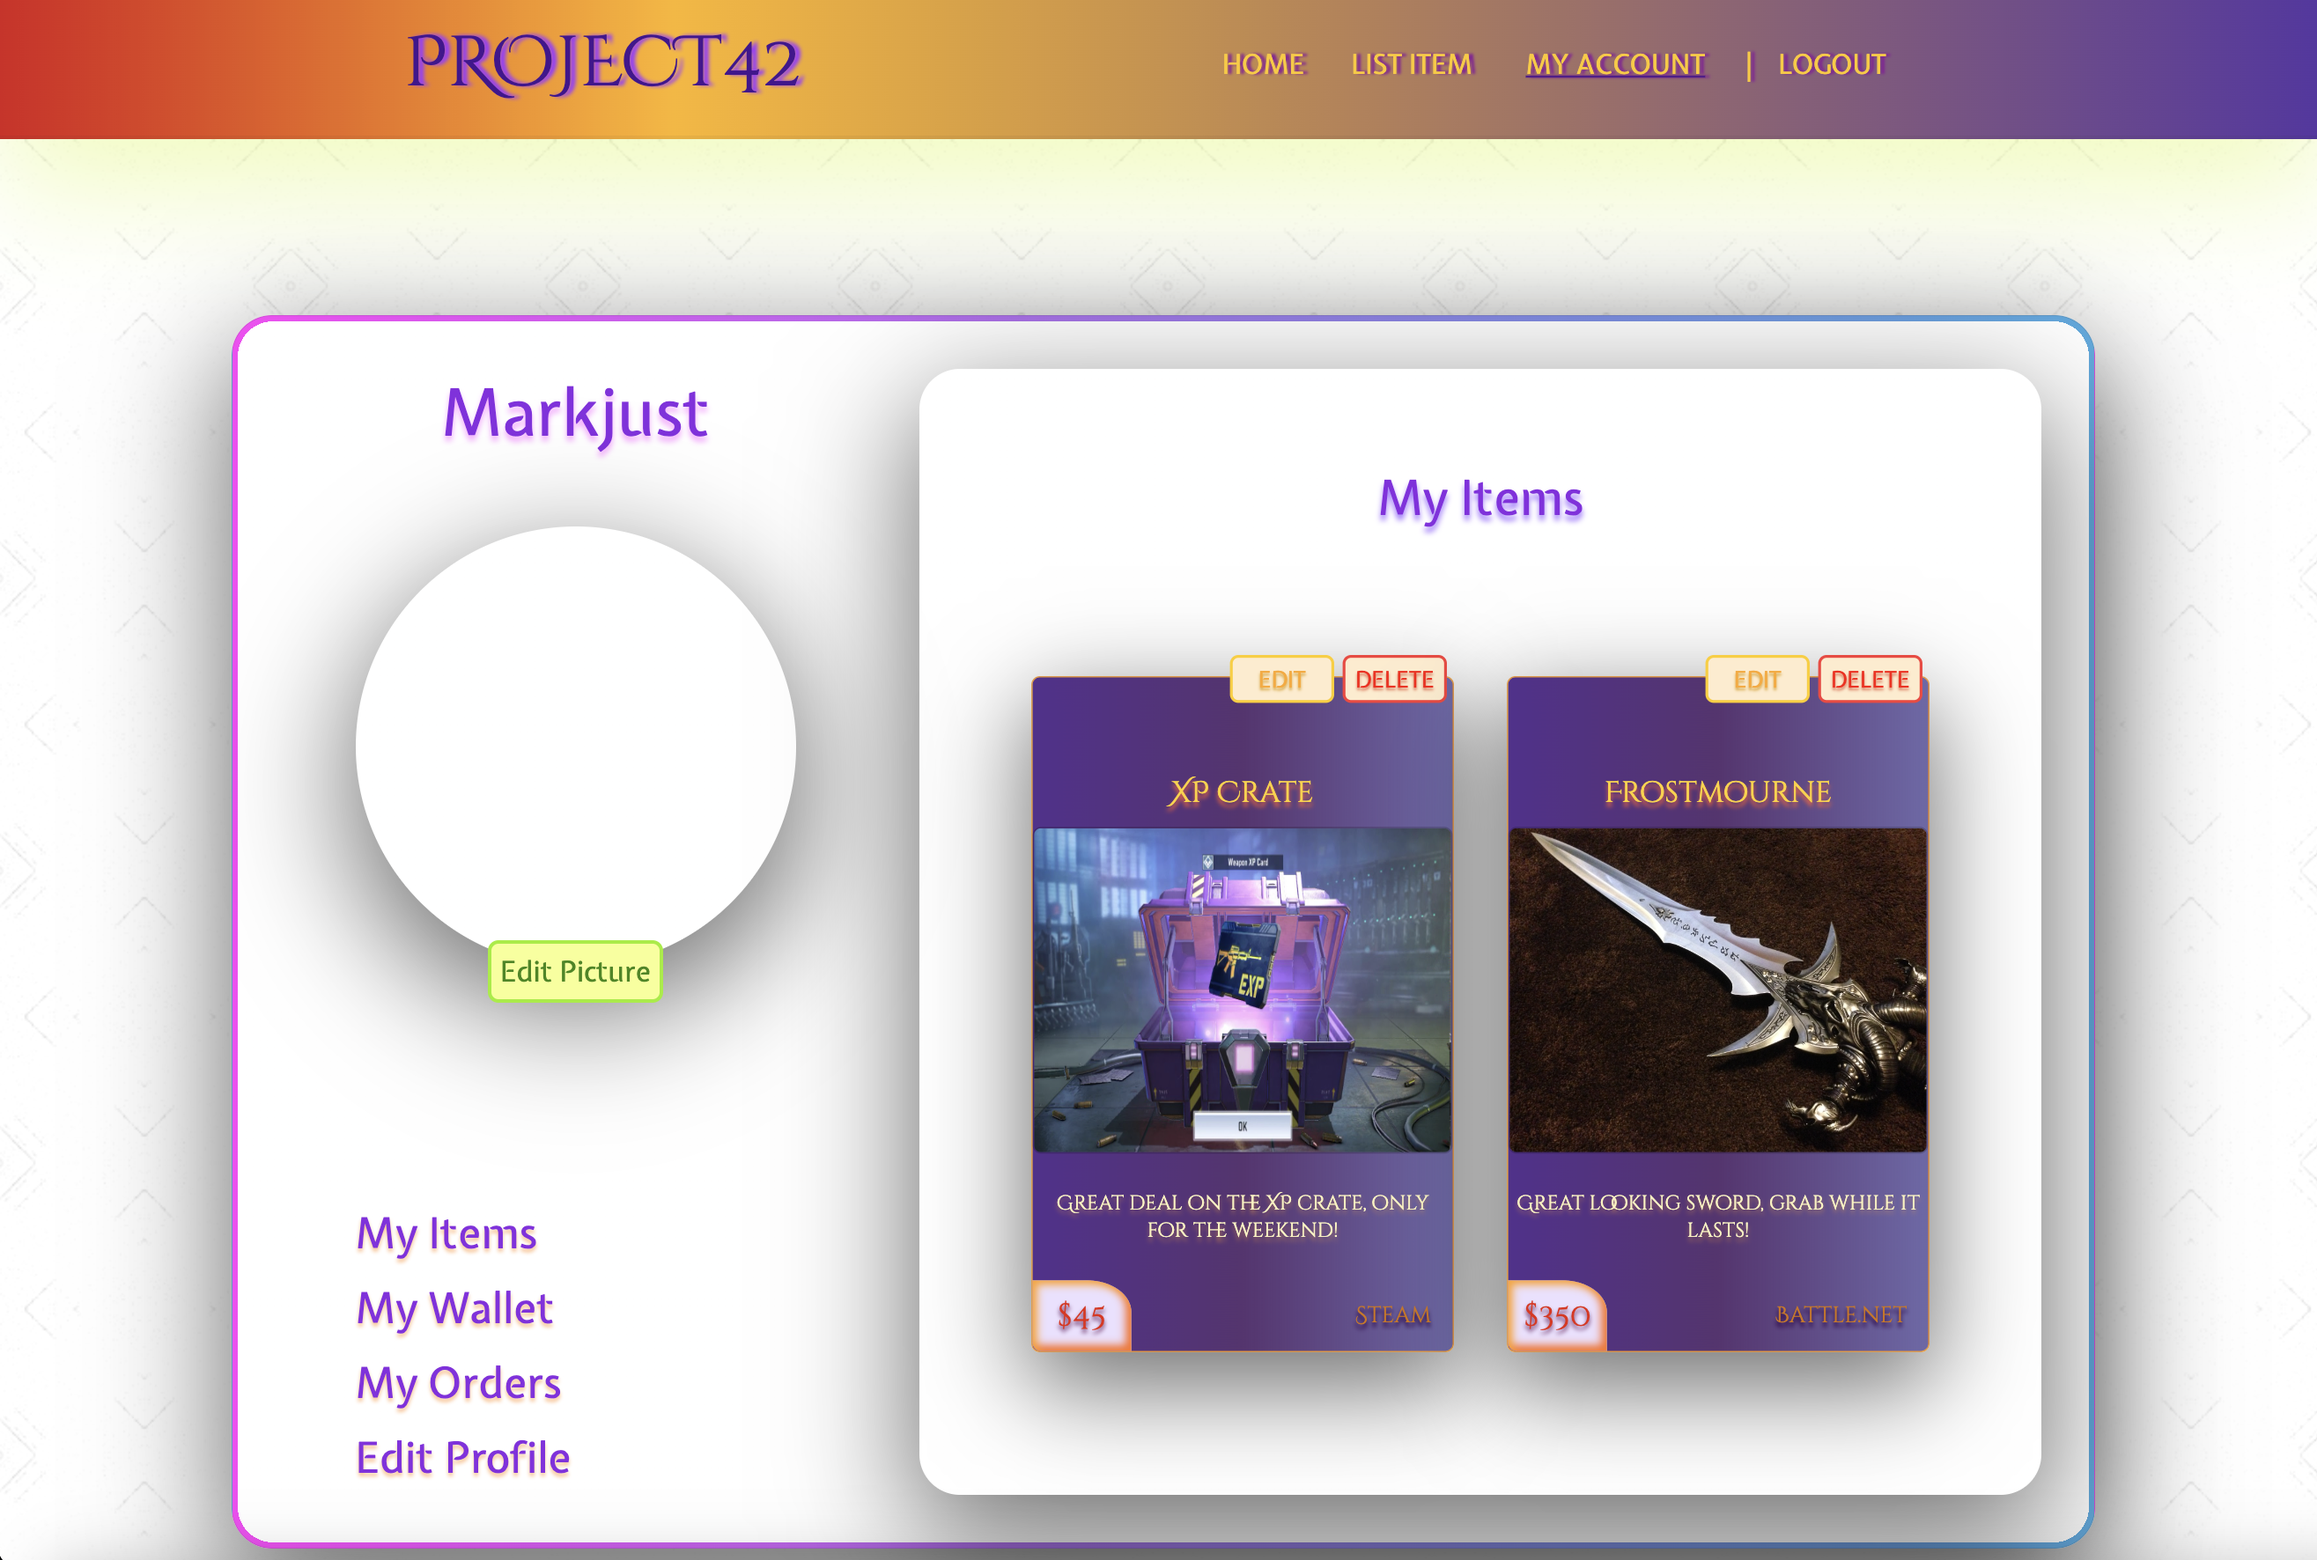
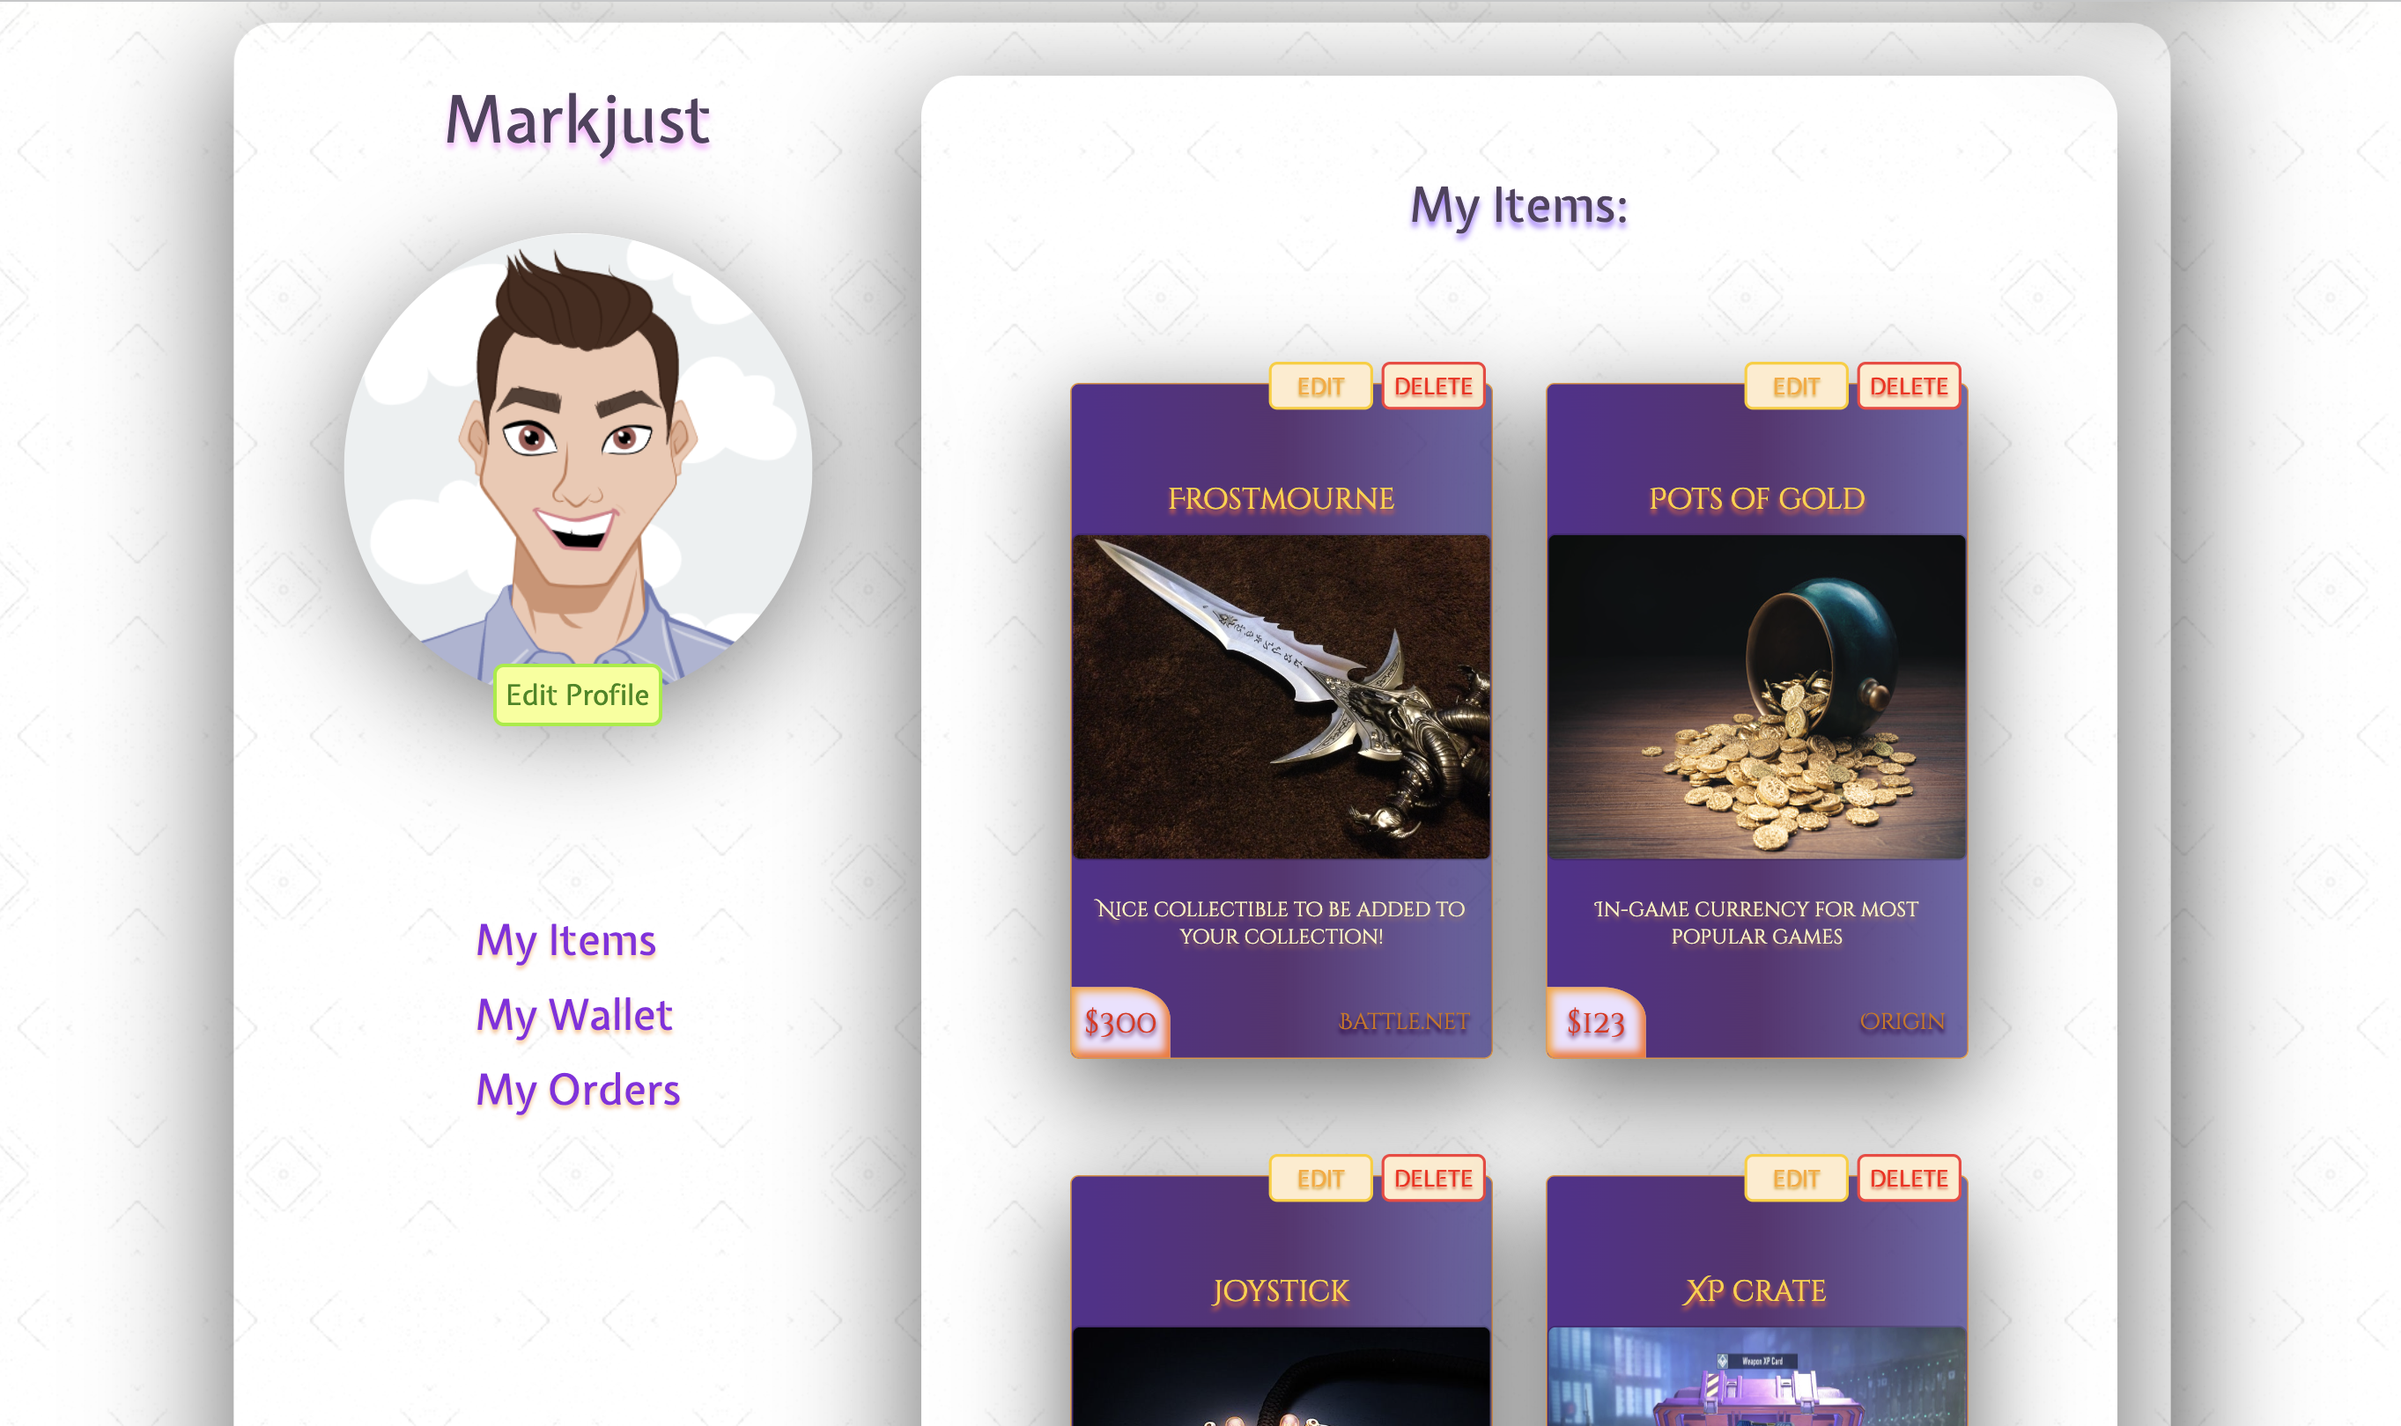
update project pics

diff --git a/express-backend/routes/users.js b/express-backend/routes/users.js
@@ -96,8 +96,10 @@ router.patch("/:id", getUser, async (req, res) => {
   const user = await User.findById(req.params.id);
 
   // credit cards
-  if (req.body.cards){
-    let cardMatch = user.cards.find(card => card.cardNumber === Number(req.body.cards[0].cardNumber));
+  if (req.body.cards) {
+    let cardMatch = user.cards.find(
+      (card) => card.cardNumber === Number(req.body.cards[0].cardNumber)
+    );
     if (!cardMatch) {
       const cards = req.body.cards;
       // console.log('cards:',cards)
@@ -112,16 +114,18 @@ router.patch("/:id", getUser, async (req, res) => {
   }
 
   // cart items
-  let cartMatch = user.cart.find(
-    (item) => item.title === req.body.cart[0].title
-  );
-  if (!cartMatch) {
-    const cart = req.body.cart;
-    cart?.map((el) => {
-      res.user.cart.push(el);
-    });
-  } else {
-    res.status(409);
+  if (req.body.cart) {
+    let cartMatch = user.cart.find(
+      (item) => item.title === req.body.cart[0].title
+    );
+    if (!cartMatch) {
+      const cart = req.body.cart;
+      cart?.map((el) => {
+        res.user.cart.push(el);
+      });
+    } else {
+      res.status(409);
+    }
   }
 
   try {

diff --git a/README.md b/README.md
@@ -23,11 +23,26 @@ Once all the conditions are satisfied, the 'Register' button is activated.
 
 -------------------------------------------------------------------------
 
-### User login:
+### Browse all items:
 
-The login form changes border colour to red and wiggles if user entered wrong information.
+The page where we browse items from all users and add selected items to our cart. We receive the number of cart items on the icon in the top right corner. 
 
-!["Login"](./react-frontend/public/uploads/login.png)
+!["Main"](./react-frontend/public/uploads/main.png)
+
+-------------------------------------------------------------------------
+
+### My Cabinet:
+
+Place where we see our own items, user can edit the item ino as well as delete items.
+
+!["Add"](./react-frontend/public/uploads/myitems.png)
+
+-------------------------------------------------------------------------
+### Editing user profile:
+
+We can update our profile by clicking on "Edit Profile" button under the profile picture.
+
+!["Add"](./react-frontend/public/uploads/editprofile.png)
 
 -------------------------------------------------------------------------
 
@@ -38,12 +53,27 @@ Process of adding the item.
 !["Add"](./react-frontend/public/uploads/additem.png)
 
 -------------------------------------------------------------------------
+### Cart:
 
+This is where cart items are stored before user jumps to checkout.
+
+!["Cart"](./react-frontend/public/uploads/cart.png)
+
+-------------------------------------------------------------------------
+
+### My wallet:
+
+Place where users add new credit cards and see the added ones.
+
+!["Wallet"](./react-frontend/public/uploads/mywallet.png)
+!["Addcard"](./react-frontend/public/uploads/addcard.png)
+
+
+-------------------------------------------------------------------------
 ### My items:
 
 Place where users can see, edit and delete their items.
 
-!["Add"](./react-frontend/public/uploads/myitems.png)
 !["Edit"](./react-frontend/public/uploads/edititem.png)
 !["Delete"](./react-frontend/public/uploads/validate.png)
 
